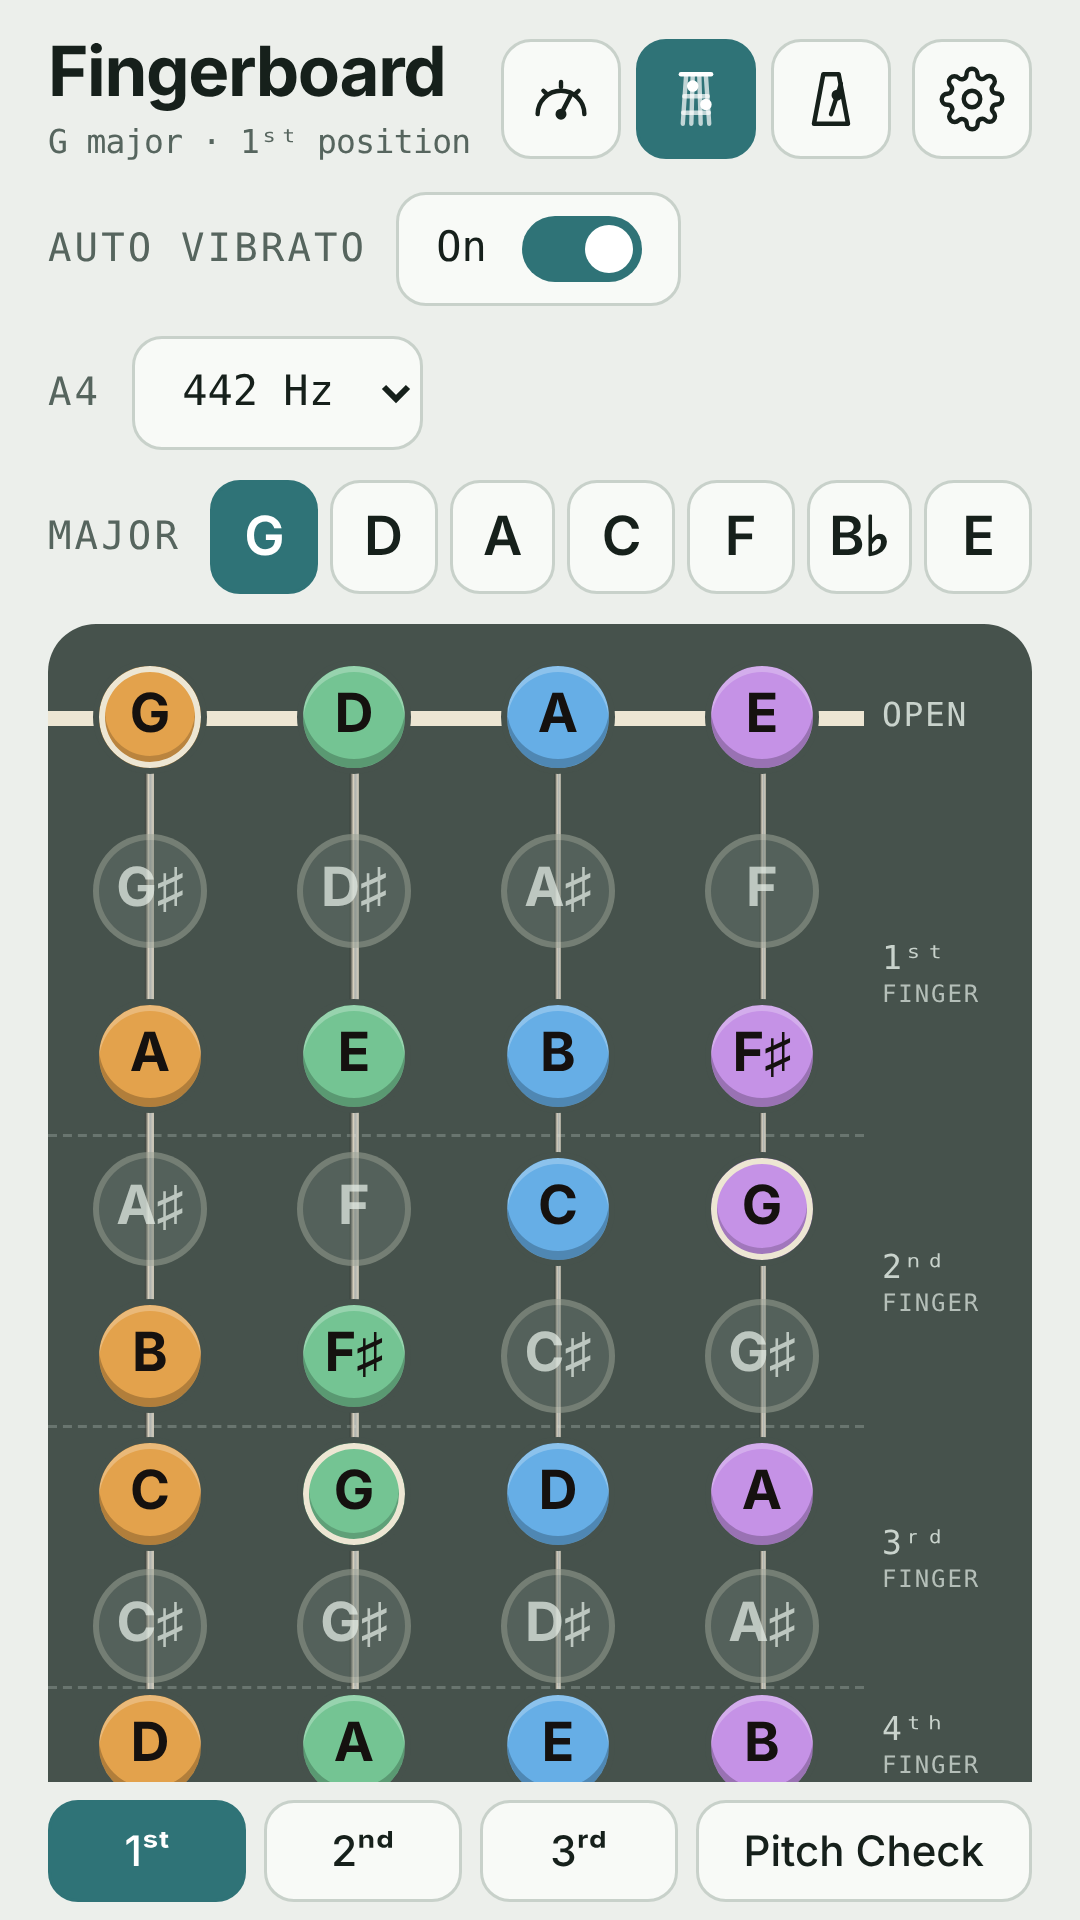
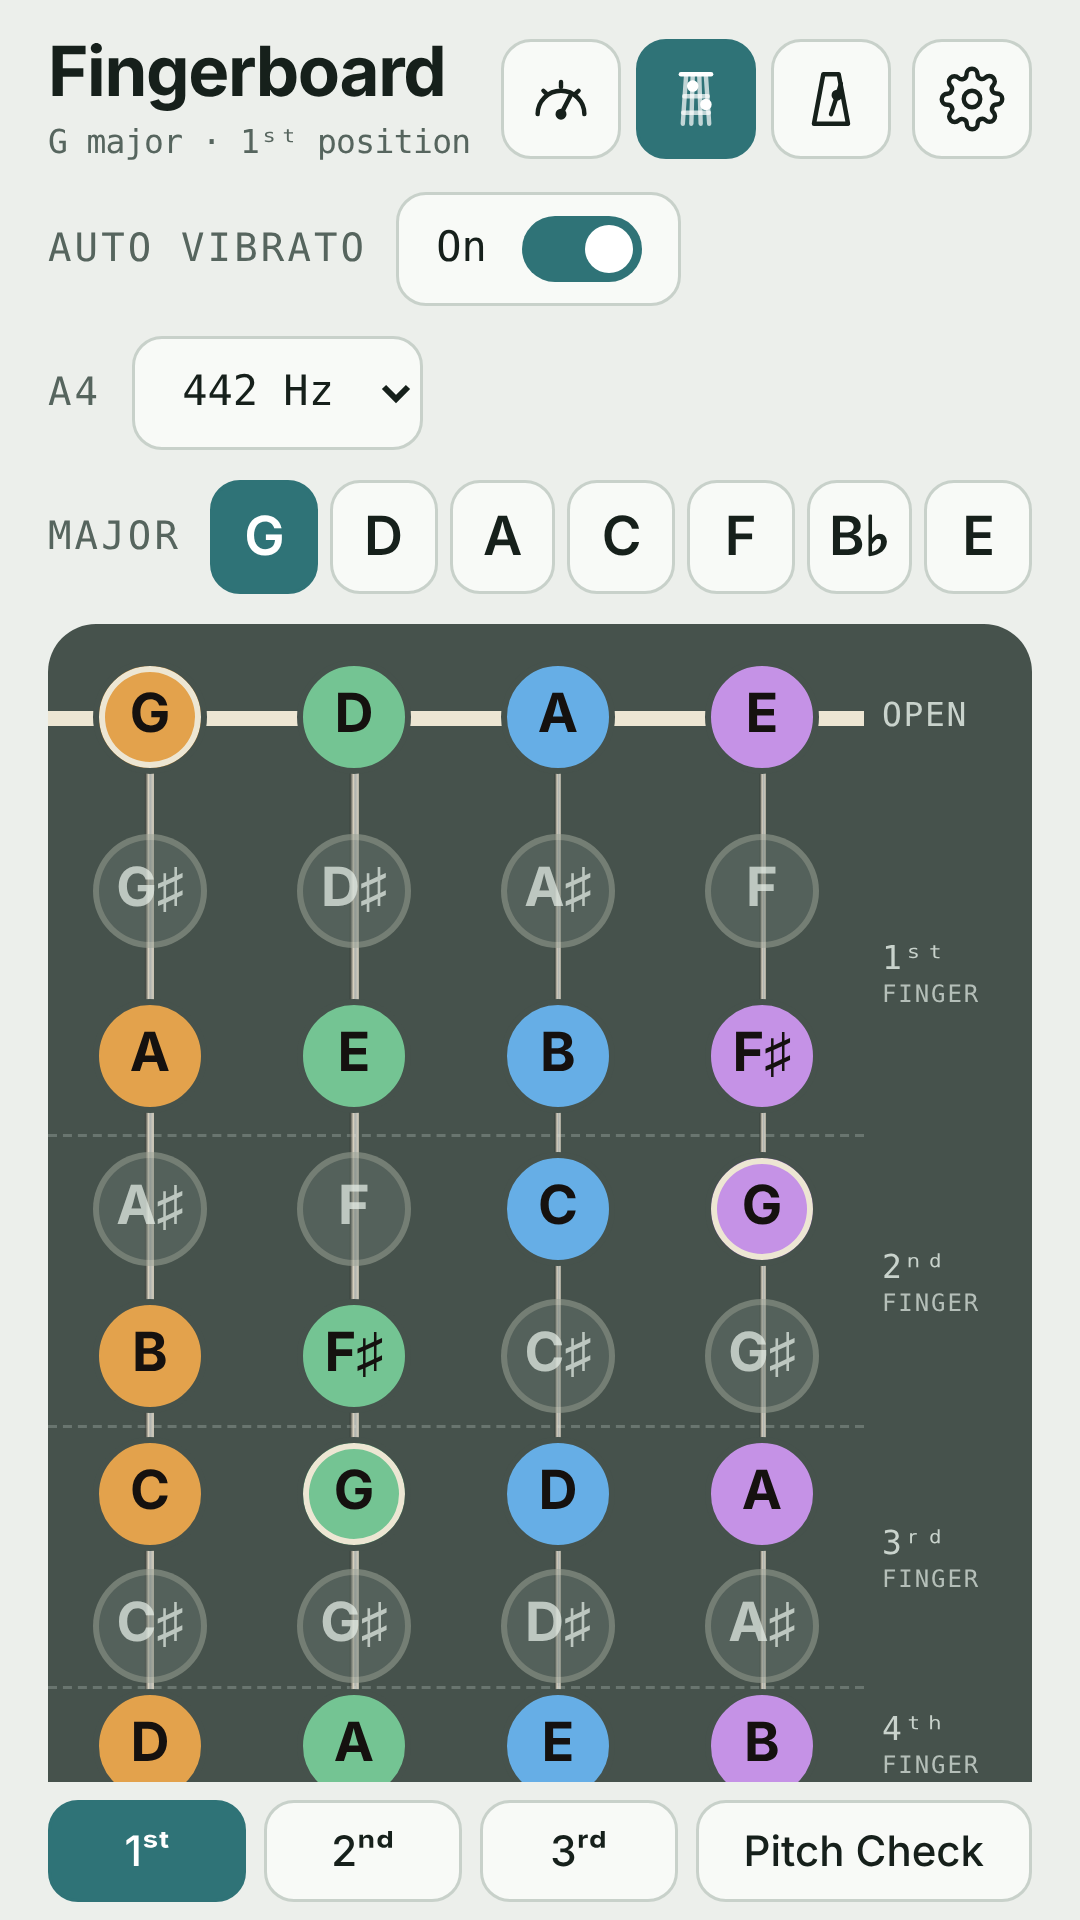
Fingerboard: flat keys (no 3D shading), hover highlight over the whole touch area
Claude-Session: https://claude.ai/code/session_019799FXdoKzFabUCeFcPF3f

diff --git a/src/board.html b/src/board.html
@@ -202,7 +202,6 @@ button:focus-visible, select:focus-visible { outline: 3px solid var(--accent); o
   background: var(--hue); color: var(--ink);
   font-size: 0;
   line-height: 0;
-  box-shadow: inset 0 -3px 0 rgba(0,0,0,.22), inset 0 2px 0 rgba(255,255,255,.25);
   transform: translate(-50%, -50%) scale(var(--s, 1));
   transition: transform 60ms ease-out, box-shadow 80ms ease-out, filter 80ms;
   cursor: pointer;
@@ -232,7 +231,7 @@ button:focus-visible, select:focus-visible { outline: 3px solid var(--accent); o
 }
 .note.off.heard, .note.off.down { background: color-mix(in srgb, var(--off) 80%, transparent); color: var(--off-ink); }
 .note.harm { border: 2px dashed var(--nut); }
-.note.root { box-shadow: inset 0 0 0 2px var(--nut), inset 0 -2px 0 2px rgba(0,0,0,.18); }
+.note.root { box-shadow: inset 0 0 0 2px var(--nut); }
 .note.down {
   --s: 0.92;
   filter: brightness(1.12);
@@ -248,6 +247,7 @@ button:focus-visible, select:focus-visible { outline: 3px solid var(--accent); o
     0 0 0 5px color-mix(in srgb, var(--hue) 45%, transparent),
     0 0 22px 4px color-mix(in srgb, var(--hue) 60%, transparent);
 }
+@media (hover: hover) { .note:hover:not(.down):not(.heard) { filter: brightness(1.1); } }
 .note:focus-visible { outline: 3px solid #fff; outline-offset: 3px; }
 
 .legend-row { display: flex; flex-wrap: wrap; gap: 6px 16px; align-items: center; }

diff --git a/index.html b/index.html
@@ -311,7 +311,6 @@ h1 {
   background: var(--hue); color: var(--ink);
   font-size: 0;
   line-height: 0;
-  box-shadow: inset 0 -3px 0 rgba(0,0,0,.22), inset 0 2px 0 rgba(255,255,255,.25);
   transform: translate(-50%, -50%) scale(var(--s, 1));
   transition: transform 60ms ease-out, box-shadow 80ms ease-out, filter 80ms;
   cursor: pointer;
@@ -343,7 +342,7 @@ h1 {
 #view-board .note.off.heard,
 #view-board .note.off.down { background: color-mix(in srgb, var(--off) 80%, transparent); color: var(--off-ink); }
 #view-board .note.harm { border: 2px dashed var(--nut); }
-#view-board .note.root { box-shadow: inset 0 0 0 2px var(--nut), inset 0 -2px 0 2px rgba(0,0,0,.18); }
+#view-board .note.root { box-shadow: inset 0 0 0 2px var(--nut); }
 #view-board .note.down {
   --s: 0.92;
   filter: brightness(1.12);
@@ -358,6 +357,9 @@ h1 {
   box-shadow:
     0 0 0 5px color-mix(in srgb, var(--hue) 45%, transparent),
     0 0 22px 4px color-mix(in srgb, var(--hue) 60%, transparent);
+}
+@media (hover: hover) {
+#view-board .note:hover:not(.down):not(.heard) { filter: brightness(1.1); }
 }
 #view-board .note:focus-visible { outline: 3px solid #fff; outline-offset: 3px; }
 #view-board .legend-row { display: flex; flex-wrap: wrap; gap: 6px 16px; align-items: center; }

diff --git a/sw.js b/sw.js
@@ -1,5 +1,5 @@
 /* Violin Toolkit service worker. VERSION changes on every build, which makes phones update. */
-const VERSION = 'violin-toolkit-20261023-203841';
+const VERSION = 'violin-toolkit-20261023-204131';
 const CORE = ['./', 'index.html', 'manifest.webmanifest', 'icon-192.png', 'icon-512.png', 'apple-touch-icon.png'];
 self.addEventListener('install', e => {
   e.waitUntil(caches.open(VERSION).then(async c => {
